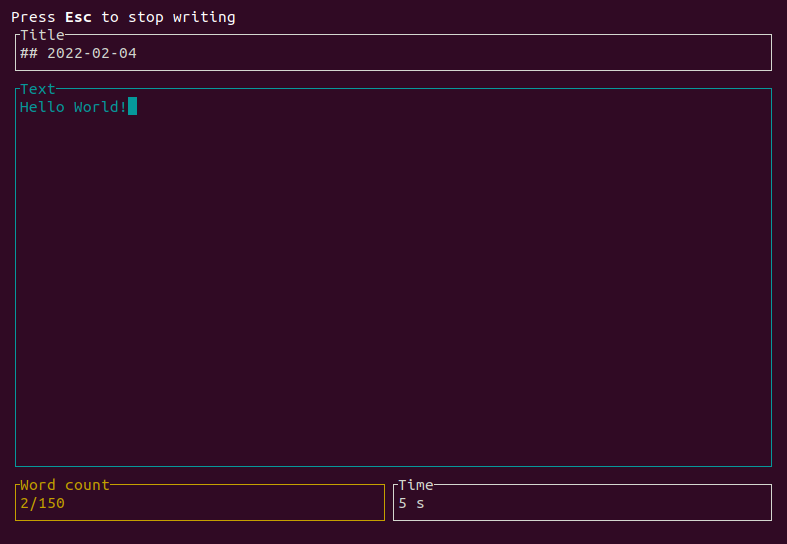
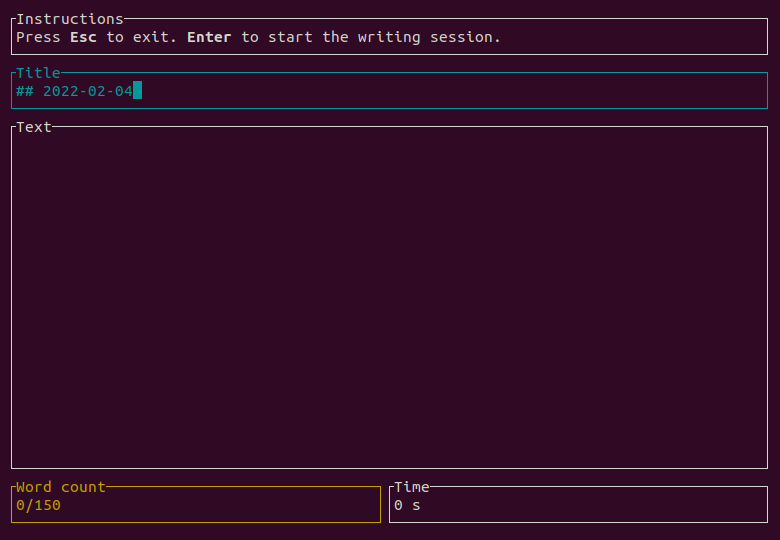
- Add box for instructions

Changed region(s): [[0.0, 0.0, 0.9846, 0.2667], [0.0, 0.8296, 0.9846, 0.9778]]

diff --git a/src/main.rs b/src/main.rs
@@ -391,7 +391,7 @@ fn ui<B: Backend>(f: &mut Frame<B>, app: &App) {
         .margin(2)
         .constraints(
             [
-                Constraint::Length(1),
+                Constraint::Length(3),
                 Constraint::Length(3),
                 Constraint::Min(1),
                 Constraint::Length(3),
@@ -401,7 +401,9 @@ fn ui<B: Backend>(f: &mut Frame<B>, app: &App) {
         .split(f.size());
 
     let text = Text::from(Spans::from(app.get_title()));
-    let help_message = Paragraph::new(text);
+    let help_message = Paragraph::new(text)
+        .style(Style::default().fg(PASSIVE_COLOR))
+        .block(Block::default().borders(Borders::ALL).title("Instructions"));
     f.render_widget(help_message, chunks[0]);
 
     let widget_colors = app.get_widget_colors();
